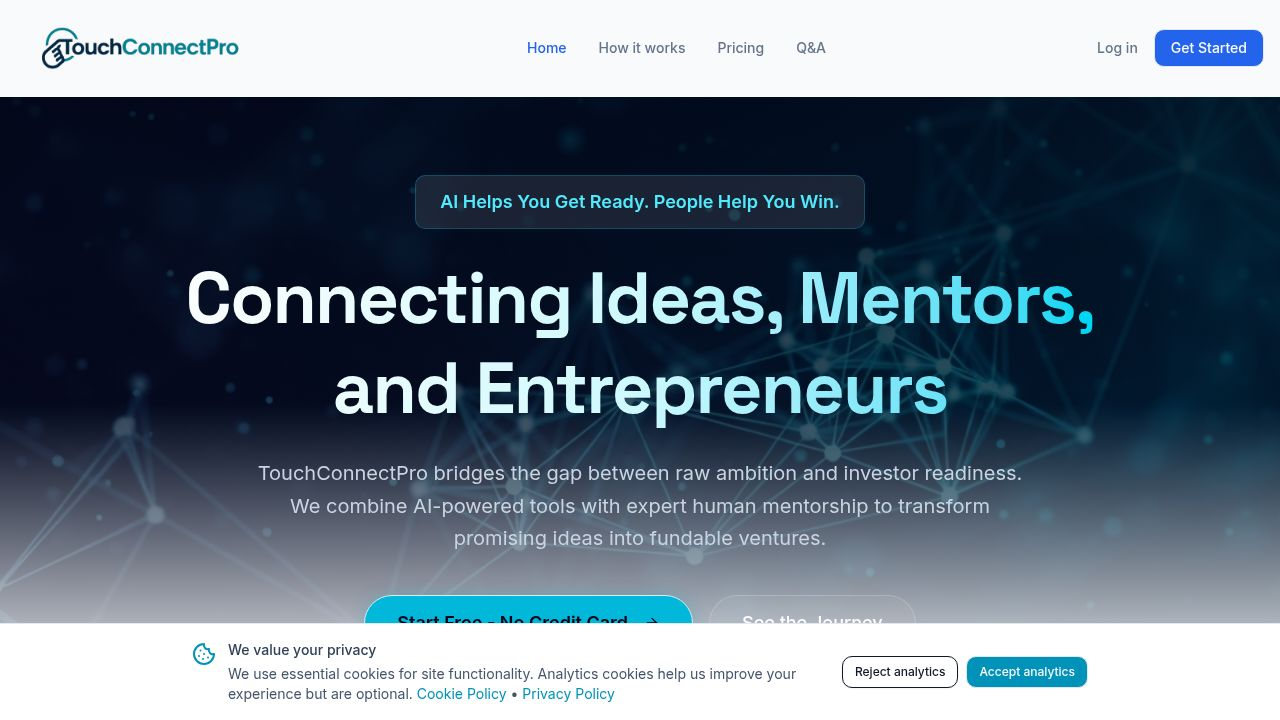
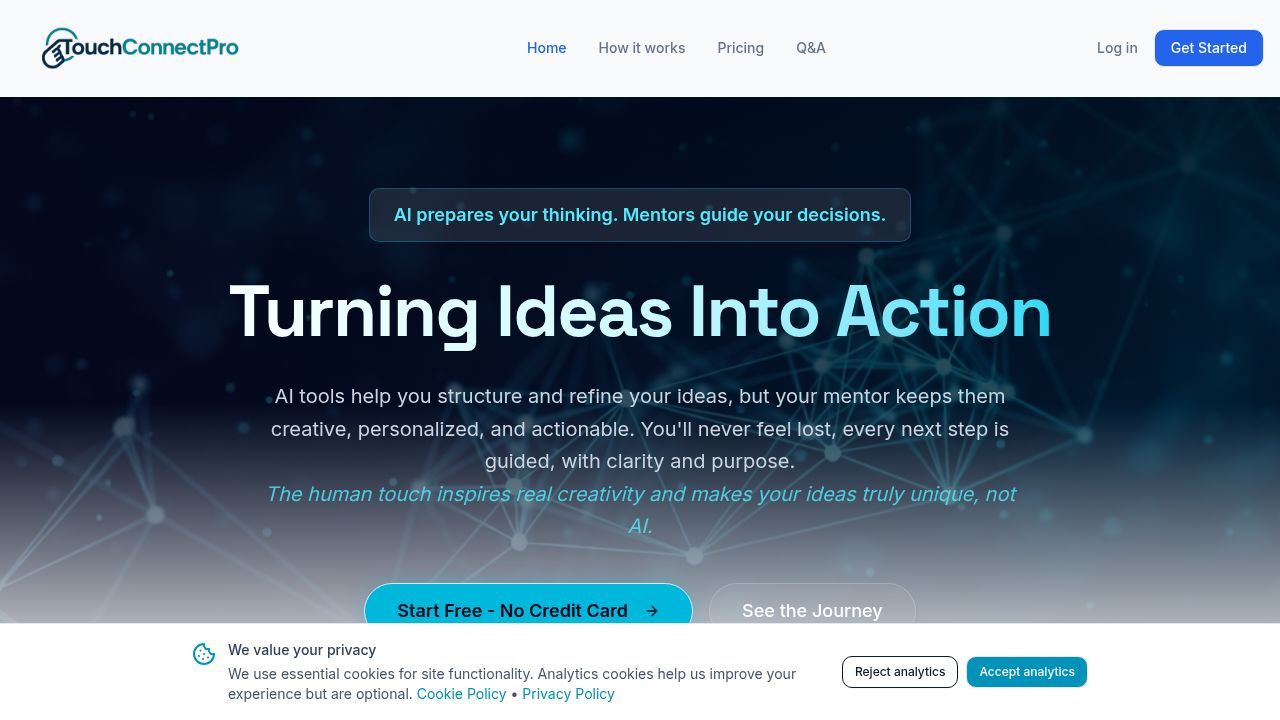
Update home page content and add expandable sections for details
Updates text content on the home page and implements collapsible sections for detailed explanations within the AI, Mentor, and Pricing areas using React's useState hook.

Replit-Commit-Author: Agent
Replit-Commit-Session-Id: 29b58214-61eb-48a6-b57f-1afbe7dab91a
Replit-Commit-Checkpoint-Type: intermediate_checkpoint
Replit-Commit-Event-Id: 5deff3eb-9d39-4a93-9d91-c6e94bdd1793
Replit-Commit-Screenshot-Url: https://storage.googleapis.com/screenshot-production-us-central1/84ca3f89-f428-4282-8439-8455bc837716/29b58214-61eb-48a6-b57f-1afbe7dab91a/c3OgmJS
Replit-Helium-Checkpoint-Created: true

Changed region(s): [[0.125, 0.3667, 0.875, 0.7639], [0.2812, 0.2444, 0.7188, 0.3361], [0.2812, 0.7944, 0.6875, 0.8861]]

diff --git a/client/src/pages/Home.tsx b/client/src/pages/Home.tsx
@@ -1,13 +1,47 @@
+import { useState } from "react";
 import { Button } from "@/components/ui/button";
 import { Card, CardContent } from "@/components/ui/card";
 import { Badge } from "@/components/ui/badge";
-import { Check, ArrowRight, Sparkles, Users, FileText, TrendingUp, Shield, Target } from "lucide-react";
+import { Check, ArrowRight, Sparkles, Users, FileText, TrendingUp, Shield, Target, ChevronDown } from "lucide-react";
 import { Link } from "wouter";
 import heroBg from "@assets/generated_images/modern_abstract_network_connections_hero_background.png";
-import aiFeature from "@assets/generated_images/ai_business_plan_generation_feature_image.png";
 import mentorFeature from "@assets/generated_images/mentorship_connection_feature_image.png";
+import step1Image from "@assets/stock_images/business_mentor_meet_68880719.jpg";
+
+interface ExpandableItemProps {
+  title: string;
+  detail: string;
+  isExpanded: boolean;
+  onToggle: () => void;
+  iconColor?: string;
+}
+
+function ExpandableItem({ title, detail, isExpanded, onToggle, iconColor = "text-primary" }: ExpandableItemProps) {
+  return (
+    <div 
+      className="cursor-pointer"
+      onClick={onToggle}
+    >
+      <div className="flex items-center gap-3 text-slate-700 dark:text-slate-300">
+        <div className={`h-6 w-6 rounded-full ${iconColor.includes('indigo') ? 'bg-indigo-500/10' : 'bg-primary/10'} flex items-center justify-center shrink-0`}>
+          <Check className={`h-4 w-4 ${iconColor}`} />
+        </div>
+        <span className="flex-1">{title}</span>
+        <ChevronDown className={`h-4 w-4 text-muted-foreground transition-transform duration-200 ${isExpanded ? 'rotate-180' : ''}`} />
+      </div>
+      {isExpanded && (
+        <p className="mt-2 ml-9 text-sm text-slate-500 dark:text-slate-400 animate-in fade-in slide-in-from-top-1 duration-200">
+          {detail}
+        </p>
+      )}
+    </div>
+  );
+}
 
 export default function Home() {
+  const [expandedAiItem, setExpandedAiItem] = useState<number | null>(null);
+  const [expandedMentorItem, setExpandedMentorItem] = useState<number | null>(null);
+  const [expandedPricingItem, setExpandedPricingItem] = useState<number | null>(null);
   return (
     <div className="flex flex-col gap-0">
       {/* Hero Section */}
@@ -24,13 +58,14 @@ export default function Home() {
 
         <div className="container relative z-10 px-4 text-center max-w-5xl mx-auto animate-in fade-in slide-in-from-bottom-8 duration-1000">
           <Badge variant="secondary" className="mb-6 px-4 py-2 md:px-6 md:py-3 text-xs md:text-lg bg-white/10 text-cyan-300 border-cyan-500/30 backdrop-blur-sm hover:bg-white/20 inline-block max-w-full">
-            <span className="block md:inline">AI Helps You Get Ready. People Help You Win.</span>
+            <span className="block md:inline">AI prepares your thinking. Mentors guide your decisions.</span>
           </Badge>
           <h1 className="text-5xl md:text-7xl font-display font-bold leading-tight tracking-tight mb-6 bg-clip-text text-transparent bg-gradient-to-r from-white via-cyan-100 to-cyan-400">
-            Connecting Ideas, Mentors,<br />and Entrepreneurs
+            Turning Ideas Into Action
           </h1>
           <p className="text-lg md:text-xl text-slate-300 mb-10 max-w-3xl mx-auto leading-relaxed">
-            TouchConnectPro bridges the gap between raw ambition and investor readiness. We combine AI-powered tools with expert human mentorship to transform promising ideas into fundable ventures.
+            AI tools help you structure and refine your ideas, but your mentor keeps them creative, personalized, and actionable. You'll never feel lost, every next step is guided, with clarity and purpose.
+            <br /><span className="text-cyan-300/80 italic">The human touch inspires real creativity and makes your ideas truly unique, not AI.</span>
           </p>
           <div className="flex flex-col sm:flex-row items-center justify-center gap-4">
             <Link href="/coming-soon">
@@ -75,7 +110,7 @@ export default function Home() {
               {
                 icon: <Users className="h-6 w-6 text-emerald-500" />,
                 title: "3. Active Development",
-                desc: "Monthly coaching sessions, community learning, and specialized support to build your foundation."
+                desc: "Work with a mentor personally matched to you, receive ongoing tailored feedback and guidance, ask questions anytime, and access specialized coaching when needed."
               },
               {
                 icon: <TrendingUp className="h-6 w-6 text-amber-500" />,
@@ -107,11 +142,11 @@ export default function Home() {
                   <Shield className="h-16 w-16 text-indigo-400 mb-6" />
                   <h3 className="text-3xl font-display font-bold text-white mb-4">Your Mentor Is Committed</h3>
                   <p className="text-lg text-slate-300 leading-relaxed mb-6">
-                    Once your idea is approved into a mentor's portfolio, your mentor becomes your dedicated guide through every stage of your journey — from initial validation, through active development, all the way to securing investor funding.
+                    Once your idea is approved into a mentor's portfolio, your mentor becomes your personalized guide, providing tailored feedback and actionable advice at every stage, from initial validation, through active development, to preparing for investor readiness.
                   </p>
                   <div className="bg-white/10 border border-white/20 rounded-lg p-4 backdrop-blur">
                     <p className="text-slate-200 italic text-sm">
-                      "TouchConnectPro succeeds only when you succeed — creating a true partnership focused on your long-term growth."
+                      "TouchConnectPro succeeds only when you succeed, creating a true partnership focused on your long-term growth."
                     </p>
                   </div>
                 </div>
@@ -121,21 +156,21 @@ export default function Home() {
                       <Check className="h-6 w-6 text-indigo-400 shrink-0 mt-1" />
                       <div>
                         <h4 className="font-bold text-white mb-1">Long-Term Partnership</h4>
-                        <p className="text-sm text-slate-300">Not just feedback—a sustained commitment to your success</p>
+                        <p className="text-sm text-slate-300">A dedicated mentor guiding you with tailored feedback every step of the way.</p>
                       </div>
                     </div>
                     <div className="flex items-start gap-4 p-4 bg-white/5 rounded-lg border border-white/10 backdrop-blur">
                       <Check className="h-6 w-6 text-cyan-400 shrink-0 mt-1" />
                       <div>
                         <h4 className="font-bold text-white mb-1">Aligned Incentives</h4>
-                        <p className="text-sm text-slate-300">Mentors benefit when you succeed—creating genuine partnership</p>
+                        <p className="text-sm text-slate-300">Structured, mentor-led guidance ensures your mentor's success is tied directly to your progress, creating a genuine, committed partnership.</p>
                       </div>
                     </div>
                     <div className="flex items-start gap-4 p-4 bg-white/5 rounded-lg border border-white/10 backdrop-blur">
                       <Check className="h-6 w-6 text-emerald-400 shrink-0 mt-1" />
                       <div>
                         <h4 className="font-bold text-white mb-1">Complete Support</h4>
-                        <p className="text-sm text-slate-300">From strategy to execution to investor introductions</p>
+                        <p className="text-sm text-slate-300">Your mentor provides clarity and actionable feedback at every stage, with optional live coaching for deeper expertise.</p>
                       </div>
                     </div>
                   </div>
@@ -153,8 +188,8 @@ export default function Home() {
             <div className="md:w-1/2 order-2 md:order-1">
               <div className="relative rounded-2xl overflow-hidden shadow-2xl border border-slate-200 dark:border-slate-700 group">
                 <img 
-                  src={aiFeature} 
-                  alt="AI Business Planning" 
+                  src={step1Image} 
+                  alt="AI Business Planning with Human Guidance" 
                   className="w-full h-auto transform transition-transform duration-700 group-hover:scale-105"
                 />
                 <div className="absolute inset-0 bg-gradient-to-t from-black/40 to-transparent"></div>
@@ -166,16 +201,24 @@ export default function Home() {
                 Zero Friction. <br/>
                 <span className="text-primary">Immediate Value.</span>
               </h2>
-              <p className="text-lg text-slate-600 dark:text-slate-400 mb-8 leading-relaxed">
-                Our intelligent tools help you articulate your value proposition, clarify your messaging, and structure your thinking. Receive a mentor-ready business plan outline that demonstrates viability.
+              <p className="text-lg text-slate-600 dark:text-slate-400 mb-6 leading-relaxed">
+                Our intelligent tools help you articulate your value, clarify your messaging, and structure your thinking, all in a way that is mentor-ready. You'll receive a personalized business plan outline designed to demonstrate viability and guide your next steps, so your mentor can provide focused, actionable feedback.
               </p>
+              <h4 className="text-sm font-semibold text-slate-500 dark:text-slate-400 uppercase tracking-wide mb-4">Key Benefits</h4>
               <ul className="space-y-4 mb-8">
-                {["Articulate Value Proposition", "Clarify Messaging", "Structure Your Thinking", "Demonstrate Viability with our mentor-ready business plan"].map((item, i) => (
-                  <li key={i} className="flex items-center gap-3 text-slate-700 dark:text-slate-300">
-                    <div className="h-6 w-6 rounded-full bg-primary/10 flex items-center justify-center shrink-0">
-                      <Check className="h-4 w-4 text-primary" />
-                    </div>
-                    {item}
+                {[
+                  { title: "Articulate Your Value Proposition", detail: "Clearly show what problem you solve and for whom" },
+                  { title: "Clarify Your Messaging", detail: "Present your idea in a compelling, concise way" },
+                  { title: "Structure Your Thinking", detail: "Organize priorities and decisions for maximum clarity" },
+                  { title: "Mentor-Ready Business Plan", detail: "Demonstrate viability and progress with a plan your mentor can guide you on" }
+                ].map((item, i) => (
+                  <li key={i}>
+                    <ExpandableItem
+                      title={item.title}
+                      detail={item.detail}
+                      isExpanded={expandedAiItem === i}
+                      onToggle={() => setExpandedAiItem(expandedAiItem === i ? null : i)}
+                    />
                   </li>
                 ))}
               </ul>
@@ -195,24 +238,29 @@ export default function Home() {
               <Badge variant="outline" className="mb-4 border-indigo-500/30 text-indigo-500">Step 2 & 3: Partnership</Badge>
               <h2 className="text-3xl md:text-4xl font-display font-bold mb-6 text-slate-900 dark:text-white">
                 Your Mentor <br/>
-                <span className="text-indigo-500">Matched to Your Goals.</span>
+                <span className="text-indigo-500">Matched to Your Goals</span>
               </h2>
-              <p className="text-lg text-slate-600 dark:text-slate-400 mb-8 leading-relaxed">
-                Membership begins after your mentor reviews your AI-prepared materials and approves your idea into his or her portfolio. This ensures meaningful, committed partnership.
+              <p className="text-lg text-slate-600 dark:text-slate-400 mb-6 leading-relaxed">
+                Membership begins after your mentor reviews your AI-prepared materials and approves your idea into their portfolio. This ensures a personalized, focused mentor relationship from the start.
               </p>
+              <h4 className="text-sm font-semibold text-slate-500 dark:text-slate-400 uppercase tracking-wide mb-4">What's Included</h4>
               <ul className="space-y-4 mb-8">
                 {[
-                  "30-min Face-to-Face Onboarding (Month 1)", 
-                  "Monthly Group Coaching Sessions", 
-                  "Access to Specialized Experts (Legal, Finance, etc.)",
-                  "Access to our business tools from our partners",
-                  "Ongoing mentor follow-through on your project — especially valuable when challenges arise and you're unsure what direction to take"
+                  { title: "Personalized Mentor Guidance", detail: "Matched to your goals, providing structured feedback and actionable advice" },
+                  { title: "Ongoing Mentor Support", detail: "Ask questions anytime; your mentor responds thoughtfully to keep your project moving forward" },
+                  { title: "Partner Business Tools", detail: "Curated resources to help you structure and grow your idea" },
+                  { title: "Mentor-Ready AI Materials", detail: "Guidance starts from materials your mentor can review immediately, so feedback is focused and actionable" },
+                  { title: "Optional Specialist Experts", detail: "Access paid coaches for legal, finance, marketing, or other deep expertise when needed" },
+                  { title: "No scheduled meetings required", detail: "Guidance happens when it matters most." }
                 ].map((item, i) => (
-                  <li key={i} className="flex items-center gap-3 text-slate-700 dark:text-slate-300">
-                    <div className="h-6 w-6 rounded-full bg-indigo-500/10 flex items-center justify-center shrink-0">
-                      <Check className="h-4 w-4 text-indigo-500" />
-                    </div>
-                    {item}
+                  <li key={i}>
+                    <ExpandableItem
+                      title={item.title}
+                      detail={item.detail}
+                      isExpanded={expandedMentorItem === i}
+                      onToggle={() => setExpandedMentorItem(expandedMentorItem === i ? null : i)}
+                      iconColor="text-indigo-500"
+                    />
                   </li>
                 ))}
               </ul>
@@ -235,9 +283,8 @@ export default function Home() {
       <section id="free-entry" className="py-24 bg-slate-900 text-white scroll-smooth">
         <div className="container px-4 mx-auto text-center">
            <h2 className="text-3xl md:text-4xl font-display font-bold mb-6">Membership: Your Growth Foundation</h2>
-           <p className="text-slate-400 text-lg max-w-2xl mx-auto mb-12">
-             For $49/month, our mentor provides personalized support, guiding you every step from starting out to launching your business.
-             <br/><span className="text-sm opacity-70">Membership begins *after* mentor acceptance.</span>
+           <p className="text-slate-400 text-lg max-w-3xl mx-auto mb-12">
+             For $49/month, your personalized mentor provides structured guidance and tailored feedback at every stage, from refining your idea to building a solid foundation for your business. Ask questions anytime, and access optional paid coaches for specialized expertise when needed, all without scheduled meetings on your busy calendar.
            </p>
            
            <div className="grid md:grid-cols-2 gap-8 max-w-4xl mx-auto">
@@ -260,22 +307,44 @@ export default function Home() {
              <Card className="bg-gradient-to-br from-indigo-900 to-slate-900 border-indigo-500/50 text-left relative overflow-hidden">
                <CardContent className="p-8">
                  <h3 className="text-2xl font-bold mb-2 text-white">Member</h3>
-                 <div className="text-4xl font-display font-bold mb-6 text-white">$49<span className="text-lg text-indigo-300 font-normal">/mo</span></div>
-                 <p className="text-indigo-200 mb-8">Upon Mentor Acceptance.</p>
-                 <div className="mb-8 p-4 bg-gradient-to-r from-indigo-500/20 to-cyan-500/20 border border-indigo-400/40 rounded-lg backdrop-blur-sm">
+                 <div className="text-4xl font-display font-bold mb-4 text-white">$49<span className="text-lg text-indigo-300 font-normal">/month</span></div>
+                 <p className="text-indigo-200 mb-6">Upon Mentor Acceptance</p>
+                 <div className="mb-6 p-4 bg-gradient-to-r from-indigo-500/20 to-cyan-500/20 border border-indigo-400/40 rounded-lg backdrop-blur-sm">
                    <div className="flex items-start gap-3">
                      <div className="font-bold text-indigo-300 pt-1">📋</div>
                      <div>
                        <p className="font-bold text-indigo-200 mb-1">Waiting List</p>
-                       <p className="text-xs text-indigo-300">Only if your idea is approved and you are in a mentor's portfolio</p>
+                       <p className="text-xs text-indigo-300">Only after your idea is approved and added to a mentor's portfolio</p>
                      </div>
                    </div>
                  </div>
-                 <ul className="space-y-3 mb-8">
-                   <li className="flex items-center gap-2 text-white"><Check className="h-4 w-4 text-indigo-400"/> Dedicated Mentor-Coach</li>
-                   <li className="flex items-center gap-2 text-white"><Check className="h-4 w-4 text-indigo-400"/> Monthly Group Coaching</li>
-                   <li className="flex items-center gap-2 text-white"><Check className="h-4 w-4 text-indigo-400"/> Strategic Frameworks</li>
-                   <li className="flex items-center gap-2 text-white"><Check className="h-4 w-4 text-indigo-400"/> Community Access</li>
+                 <h4 className="text-sm font-semibold text-indigo-200 uppercase tracking-wide mb-4">What's Included</h4>
+                 <ul className="space-y-3 mb-6">
+                   {[
+                     { title: "Dedicated Mentor", detail: "Personally matched, providing structured guidance and actionable feedback" },
+                     { title: "Ask Questions Anytime", detail: "Ongoing support when you need clarity" },
+                     { title: "Strategic Frameworks", detail: "Tools and resources to structure your business" },
+                     { title: "Optional Specialist Coaches", detail: "Live sessions for legal, finance, or growth expertise" },
+                     { title: "Community Access", detail: "Learn from focused other entrepreneurs" },
+                     { title: "All without fixed scheduled meetings", detail: "Guidance happens on your busy calendar." }
+                   ].map((item, i) => (
+                     <li 
+                       key={i} 
+                       className="cursor-pointer"
+                       onClick={() => setExpandedPricingItem(expandedPricingItem === i ? null : i)}
+                     >
+                       <div className="flex items-center gap-2 text-white">
+                         <Check className="h-4 w-4 text-indigo-400 shrink-0"/>
+                         <span className="flex-1">{item.title}</span>
+                         <ChevronDown className={`h-4 w-4 text-indigo-300 transition-transform duration-200 ${expandedPricingItem === i ? 'rotate-180' : ''}`} />
+                       </div>
+                       {expandedPricingItem === i && (
+                         <p className="mt-2 ml-6 text-sm text-indigo-200/80 animate-in fade-in slide-in-from-top-1 duration-200">
+                           {item.detail}
+                         </p>
+                       )}
+                     </li>
+                   ))}
                  </ul>
                </CardContent>
              </Card>
